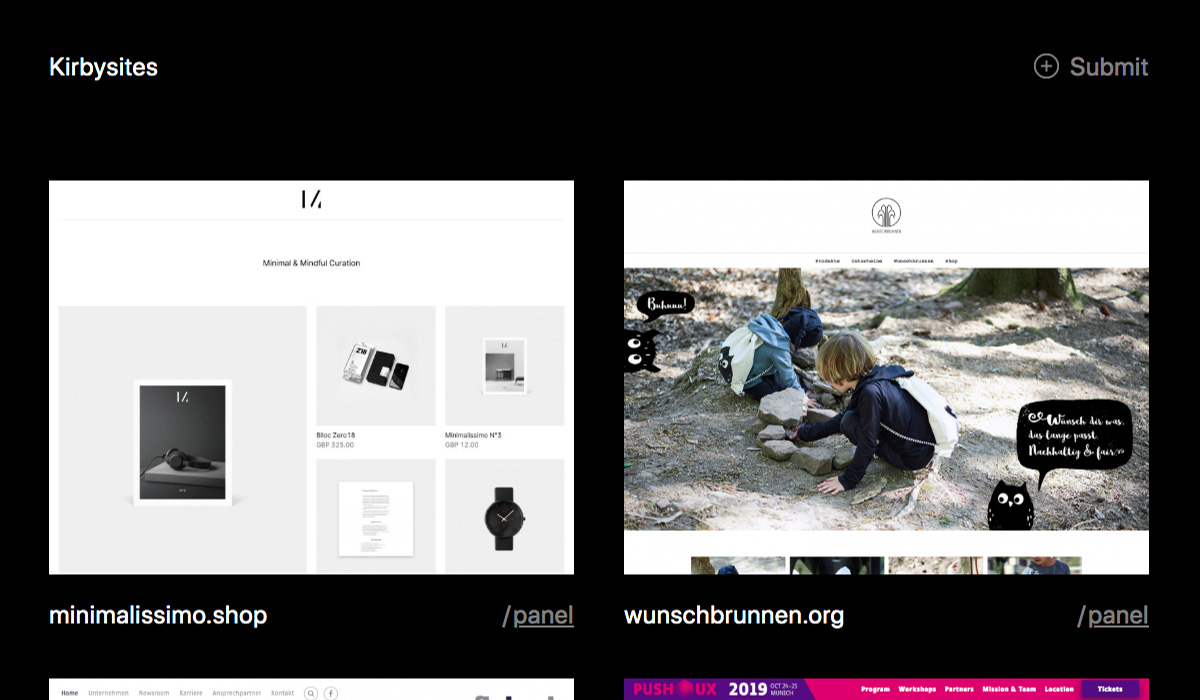
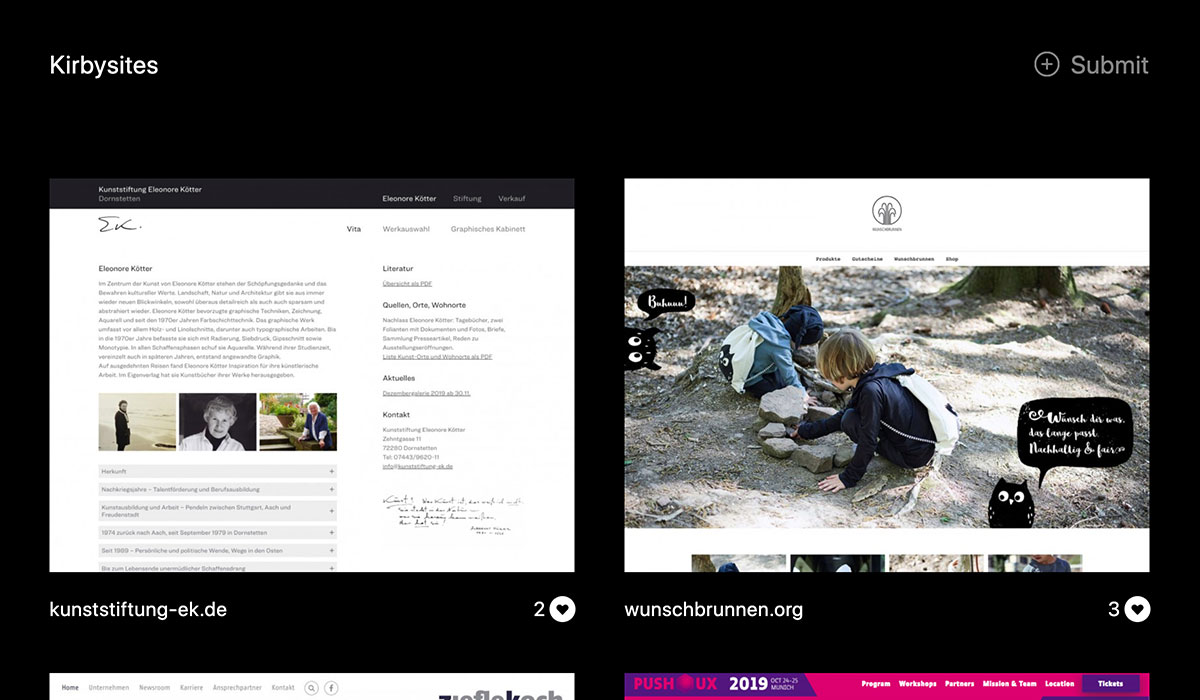
Likes

diff --git a/assets/css/style.css b/assets/css/style.css
@@ -11,7 +11,7 @@ a {
   color: inherit;
   text-decoration: none; }
 
-.pswp__counter {
+.pswp__counter, .pswp__caption {
   font-size: .8rem; }
 
 header {
@@ -20,20 +20,29 @@ header {
   -webkit-box-pack: justify;
           justify-content: space-between;
   margin-bottom: 4rem; }
-  header a.submit {
-    display: block;
-    color: rgba(255, 255, 255, 0.5); }
-    header a.submit svg {
-      display: inline-block;
-      vertical-align: top;
-      margin-right: 5px;
-      position: relative;
-      top: 2px;
-      opacity: .5; }
-    header a.submit:hover {
-      color: white; }
-      header a.submit:hover svg {
-        opacity: 1; }
+  header a {
+    -webkit-transition: all .25s ease-in-out;
+    transition: all .25s ease-in-out; }
+    header a.submit {
+      display: block;
+      color: gray; }
+      header a.submit svg {
+        display: inline-block;
+        vertical-align: top;
+        margin-right: 5px;
+        position: relative;
+        top: 2px;
+        -webkit-transition: -webkit-transform .25s ease-in-out;
+        transition: -webkit-transform .25s ease-in-out;
+        transition: transform .25s ease-in-out;
+        transition: transform .25s ease-in-out, -webkit-transform .25s ease-in-out; }
+        header a.submit svg path {
+          stroke: currentColor; }
+      header a.submit:hover {
+        color: white; }
+        header a.submit:hover svg {
+          -webkit-transform: rotate(90deg);
+                  transform: rotate(90deg); }
 
 main.text {
   font-size: .8rem;
@@ -155,8 +164,11 @@ footer {
           justify-content: space-between;
   margin-top: 4rem;
   color: rgba(255, 255, 255, 0.5); }
-  footer a:hover, footer a.open {
-    color: white; }
+  footer a {
+    -webkit-transition: all .25s ease-in-out;
+    transition: all .25s ease-in-out; }
+    footer a:hover, footer a.open {
+      color: white; }
   footer nav a {
     margin-left: 1rem; }
 
@@ -179,4 +191,10 @@ footer {
     font-size: 15px; }
   header a.submit svg {
     width: 15px;
-    top: -3px; } }
+    top: -3px; }
+  .websites .website .title a.frontend {
+    border-width: 1px; }
+  .websites .website .title a.heart svg {
+    width: 16px;
+    height: 16px;
+    top: -1px; } }

diff --git a/assets/scss/style.scss b/assets/scss/style.scss
@@ -14,7 +14,7 @@ a {
     text-decoration: none;
 }
 
-.pswp__counter {
+.pswp__counter, .pswp__caption {
     font-size: .8rem;
 }
 
@@ -23,21 +23,25 @@ header {
     justify-content: space-between;
     margin-bottom: 4rem;
     a {
+        transition: all .25s ease-in-out;
         &.submit {
             display: block;
-            color: rgba(white, .5);
+            color: darken(white, 50);
             svg {
                 display: inline-block;
                 vertical-align: top;
                 margin-right: 5px;
                 position: relative;
                 top: 2px;
-                opacity: .5;
+                transition: transform .25s ease-in-out;
+                path {
+                    stroke: currentColor;
+                }
             }
             &:hover {
                 color: white;
                 svg {
-                    opacity: 1;
+                    transform: rotate(90deg);
                 }
             }
         }
@@ -194,6 +198,7 @@ footer {
     margin-top: 4rem;
     color: rgba(white, .5);
     a {
+        transition: all .25s ease-in-out;
         &:hover, &.open {
             color: white;
         }

diff --git a/assets/js/f.js b/assets/js/f.js
@@ -13,7 +13,8 @@ document.querySelectorAll(".website").forEach(function(website) {
                     w    : img.getAttribute("data-size").split("x")[0],
                     h    : img.getAttribute("data-size").split("x")[1],
                     msrc : img.src,
-                    el   : img
+                    el   : img,
+                    title: website.querySelector('.title .frontend').outerHTML
                 }
                 items.push(item);
             });
@@ -48,7 +49,7 @@ document.querySelectorAll(".website").forEach(function(website) {
             return response.json();
         })
         .then((data) => {
-            console.log(this.querySelector("span").innerText = data.likeCount);
+            this.querySelector("span").innerText = data.likeCount;
             if(data.hasLiked) {
                 this.classList.add('has_liked');
             }

diff --git a/assets/scss/_media.scss b/assets/scss/_media.scss
@@ -29,4 +29,20 @@
 			top: -3px;
 		}
 	}
+	.websites {
+		.website {
+			.title {
+				a.frontend {
+					border-width: 1px;
+				} 
+				a.heart {
+					svg {
+						width: 16px;
+						height: 16px;
+						top: -1px;
+					}
+				}
+			}
+		}
+	} 
 }
